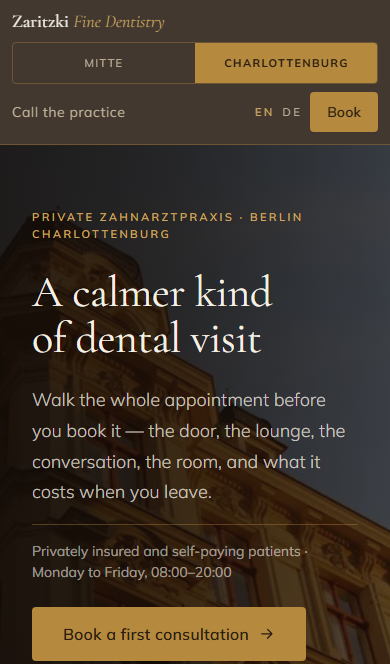
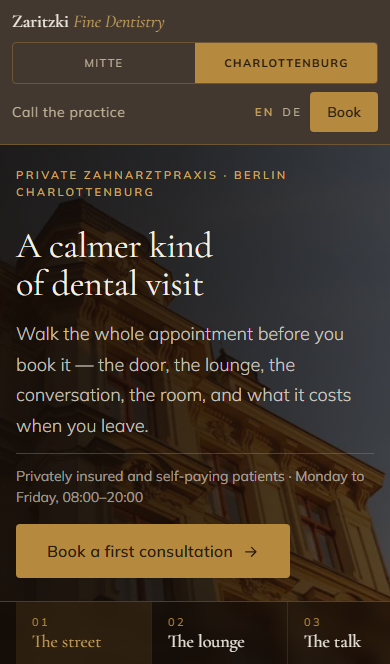
fix: keep the mobile step rail in the first viewport and mark the open facts

diff --git a/site/tests/e2e/hero-responsive.spec.ts b/site/tests/e2e/hero-responsive.spec.ts
@@ -106,6 +106,61 @@ for (const viewport of SHORT_VIEWPORTS) {
   });
 }
 
+const FIRST_VIEWPORT = { width: 390, height: 664 };
+
+for (const practice of [
+  { name: 'mitte', url: '/en' },
+  { name: 'charlottenburg', url: '/en?praxis=charlottenburg' },
+] as const) {
+  test(`the step rail sits in the first viewport at 390x664 (${practice.name})`, async ({
+    page,
+  }) => {
+    await page.setViewportSize(FIRST_VIEWPORT);
+    await page.goto(practice.url);
+    await settleStickyBar(page);
+
+    expect(await page.evaluate(() => window.scrollY)).toBe(0);
+
+    const bar = page.getByTestId('sticky-bar');
+    const rail = page.locator('#step-street nav');
+    const heroCta = page
+      .locator('#step-street')
+      .getByRole('link', { name: /Book a first consultation/ });
+
+    await expect(rail).toBeInViewport();
+
+    const railBox = await stableViewportBox(rail);
+    const ctaBox = await stableViewportBox(heroCta);
+    const barBox = clipToViewport(await stableViewportBox(bar), FIRST_VIEWPORT);
+
+    expect(
+      ctaBox.height,
+      `${practice.name} hero CTA must keep its 54px height`,
+    ).toBeGreaterThanOrEqual(54);
+    expect(
+      ctaBox.y + ctaBox.height,
+      `${practice.name} hero CTA bottom ${ctaBox.y + ctaBox.height} must be ≤ 664`,
+    ).toBeLessThanOrEqual(FIRST_VIEWPORT.height);
+    expect(
+      railBox.y,
+      `${practice.name} rail top ${railBox.y} must be on-screen`,
+    ).toBeGreaterThanOrEqual(0);
+    expect(
+      railBox.y + railBox.height,
+      `${practice.name} rail bottom ${railBox.y + railBox.height} must be ≤ 664`,
+    ).toBeLessThanOrEqual(FIRST_VIEWPORT.height);
+    expect(
+      rectsOverlap(ctaBox, railBox),
+      `${practice.name} rail ${JSON.stringify(railBox)} must not cover the CTA ${JSON.stringify(ctaBox)}`,
+    ).toBe(false);
+    expect(
+      rectsOverlap(barBox, ctaBox),
+      `${practice.name} sticky bar ${JSON.stringify(barBox)} must not cover the CTA`,
+    ).toBe(false);
+    await expect(bar).toHaveAttribute('data-visible', 'false');
+  });
+}
+
 /* -------------------------------------------------------------------------- */
 /* Hero copy contrast over the photograph                                      */
 /* -------------------------------------------------------------------------- */

diff --git a/site/tests/unit/StepSection.test.tsx b/site/tests/unit/StepSection.test.tsx
@@ -2,7 +2,11 @@ import { act, render, screen, waitFor } from '@testing-library/react';
 import { renderToString } from 'react-dom/server';
 import { afterEach, describe, expect, it, vi } from 'vitest';
 import { Reveal } from '@/components/motion/Reveal';
+import { LocationProvider } from '@/lib/LocationProvider';
+import { translator } from '@/lib/i18n';
+import en from '@/messages/en.json';
 import { StepSection } from '@/components/walk/StepSection';
+import { RoomSection } from '@/components/walk/StepSections';
 
 class ControlledIntersectionObserver implements IntersectionObserver {
   static instances: ControlledIntersectionObserver[] = [];
@@ -218,5 +222,25 @@ describe('StepSection', () => {
     expect(section).toHaveAttribute('data-image', 'right');
     expect(screen.getByText('A written estimate follows.')).toBeInTheDocument();
     expect(screen.getByText('Treatment schedule')).toBeInTheDocument();
+  });
+});
+
+describe('RoomSection', () => {
+  const t = translator(en as Record<string, unknown>);
+
+  it('keeps the confirmed clinician sentence and marks names beyond him as pending', () => {
+    render(
+      <LocationProvider>
+        <RoomSection t={t} />
+      </LocationProvider>,
+    );
+
+    expect(
+      screen.getByText(/Dr\. med\. dent\. Felix Zaritzki, and a team whose experience comes from years in university hospitals\./),
+    ).toBeInTheDocument();
+    expect(screen.getByRole('status', { name: 'Awaiting practice' })).toHaveAttribute(
+      'title',
+      'Names and credentials beyond Dr. Zaritzki not supplied',
+    );
   });
 });

diff --git a/site/components/walk/Hero.module.css b/site/components/walk/Hero.module.css
@@ -82,8 +82,11 @@
 }
 
 @media (max-width: 860px) {
+  /* 145px is the measured wrapped-header offset already used as
+     scroll-padding-top. Header sits in flow, so the hero must fill only what
+     remains or the five-step rail drops below the first screen. */
   .hero {
-    min-height: 92svh;
+    min-height: calc(100svh - 145px);
   }
 
   .lede {
@@ -109,9 +112,26 @@
     );
   }
 
-  /* CHARLOTTENBURG wraps the eyebrow onto a second line and otherwise shaves
-     ~5px off the hero CTA at the 390×664 first viewport. */
+  .inner {
+    padding: var(--space-4) var(--space-4);
+  }
+
+  .headline {
+    font-size: clamp(2.25rem, 8vw, var(--text-display-xl));
+  }
+
+  .lede {
+    margin-top: var(--space-4);
+  }
+
+  .qualifier {
+    margin-top: var(--space-3);
+    padding-top: var(--space-3);
+  }
+
+  /* CHARLOTTENBURG wraps the eyebrow onto a second line. Keep the 54px CTA
+     and the rail on-screen together at 390×664. */
   .cta {
-    margin-top: var(--space-5);
+    margin-top: var(--space-4);
   }
 }

diff --git a/site/components/walk/StepSections.tsx b/site/components/walk/StepSections.tsx
@@ -1,7 +1,9 @@
 'use client';
 
 import { TreatmentSchedule } from '@/components/content/TreatmentSchedule';
+import { PendingFact } from '@/components/dev/PendingFact';
 import { useLocation } from '@/lib/LocationProvider';
+import { OPEN_FACTS } from '@/lib/openFacts';
 import { StepSection } from './StepSection';
 
 type Translator = (key: string, values?: Record<string, string | number>) => string;
@@ -50,7 +52,17 @@ export function RoomSection({ t }: { t: Translator }) {
       eyebrow={t('room.eyebrow')}
       headline={t('room.headline')}
       body={t('room.body')}
-      note={t('room.clinician')}
+      note={
+        <>
+          {t('room.clinician')}
+          {OPEN_FACTS.clinicians.known ? null : (
+            <>
+              {' '}
+              <PendingFact note={OPEN_FACTS.clinicians.note} />
+            </>
+          )}
+        </>
+      }
       image={practice.images.treatmentRoom}
       imageSide="left"
       tone="dark"

diff --git a/site/components/content/PracticesSection.tsx b/site/components/content/PracticesSection.tsx
@@ -1,5 +1,7 @@
+import { PendingFact } from '@/components/dev/PendingFact';
 import { Reveal } from '@/components/motion/Reveal';
 import { PRACTICE_ORDER, getPractice } from '@/lib/locations';
+import { OPEN_FACTS } from '@/lib/openFacts';
 import styles from './PracticesSection.module.css';
 
 export function PracticesSection({ t }: { t: (key: string) => string }) {
@@ -9,6 +11,11 @@ export function PracticesSection({ t }: { t: (key: string) => string }) {
         <Reveal>
           <p className="eyebrow">{t('practices.eyebrow')}</p>
           <h2 className={styles.headline}>{t('practices.headline')}</h2>
+          {OPEN_FACTS.sharedTeam.known ? null : (
+            <p className={styles.shared}>
+              <PendingFact note={OPEN_FACTS.sharedTeam.note} />
+            </p>
+          )}
         </Reveal>
         <div className={styles.grid}>
           {PRACTICE_ORDER.map((id, index) => {

diff --git a/site/components/chrome/SiteFooter.tsx b/site/components/chrome/SiteFooter.tsx
@@ -1,5 +1,7 @@
 import Link from 'next/link';
+import { PendingFact } from '@/components/dev/PendingFact';
 import { PRACTICE_ORDER, getPractice } from '@/lib/locations';
+import { OPEN_FACTS } from '@/lib/openFacts';
 import styles from './SiteFooter.module.css';
 
 export function SiteFooter({ t }: { t: (key: string) => string }) {
@@ -9,6 +11,11 @@ export function SiteFooter({ t }: { t: (key: string) => string }) {
         <div>
           <div className={styles.mark}>{t('footer.rights')}</div>
           <p className={styles.tagline}>{t('footer.tagline')}</p>
+          {OPEN_FACTS.photography.known ? null : (
+            <p className={styles.credit}>
+              <PendingFact note={OPEN_FACTS.photography.note} />
+            </p>
+          )}
         </div>
         {PRACTICE_ORDER.map((id) => {
           const practice = getPractice(id);

diff --git a/site/tests/unit/PracticesSection.test.tsx b/site/tests/unit/PracticesSection.test.tsx
@@ -28,4 +28,15 @@ describe('PracticesSection', () => {
 
     expect(screen.getAllByText('Monday to Friday, 08:00–20:00')).toHaveLength(2);
   });
+
+  it('marks the unconfirmed shared-team fact once, without inventing an org chart', () => {
+    render(<PracticesSection t={t} />);
+
+    const markers = screen.getAllByRole('status', { name: 'Awaiting practice' });
+    expect(markers).toHaveLength(1);
+    expect(markers[0]).toHaveAttribute(
+      'title',
+      'Whether both addresses share clinicians is unknown',
+    );
+  });
 });

diff --git a/site/tests/unit/SiteFooter.test.tsx b/site/tests/unit/SiteFooter.test.tsx
@@ -31,6 +31,15 @@ describe('SiteFooter', () => {
     );
   });
 
+  it('marks the photography as licensed stock still awaiting approval', () => {
+    render(<SiteFooter t={t} />);
+
+    expect(screen.getByRole('status', { name: 'Awaiting practice' })).toHaveAttribute(
+      'title',
+      'All 12 images are licensed stock awaiting approval or replacement',
+    );
+  });
+
   it('renders the footer tagline and hours from the translation bundle', () => {
     const messages = {
       ...en,

diff --git a/site/components/chrome/SiteHeader.module.css b/site/components/chrome/SiteHeader.module.css
@@ -5,6 +5,7 @@
   border-bottom: 1px solid var(--hairline-gold);
   background: rgba(36, 26, 18, 0.86);
   backdrop-filter: blur(12px);
+  -webkit-backdrop-filter: blur(12px);
 }
 
 .inner {

diff --git a/site/components/content/PracticesSection.module.css b/site/components/content/PracticesSection.module.css
@@ -18,6 +18,10 @@
   line-height: var(--lh-snug);
 }
 
+.shared {
+  margin: var(--space-4) 0 0;
+}
+
 .grid {
   display: grid;
   grid-template-columns: 1fr 1fr;

diff --git a/site/components/chrome/SiteFooter.module.css b/site/components/chrome/SiteFooter.module.css
@@ -32,6 +32,10 @@
   line-height: var(--lh-relaxed);
 }
 
+.credit {
+  margin: var(--space-3) 0 0;
+}
+
 .practice {
   font-style: normal;
 }
